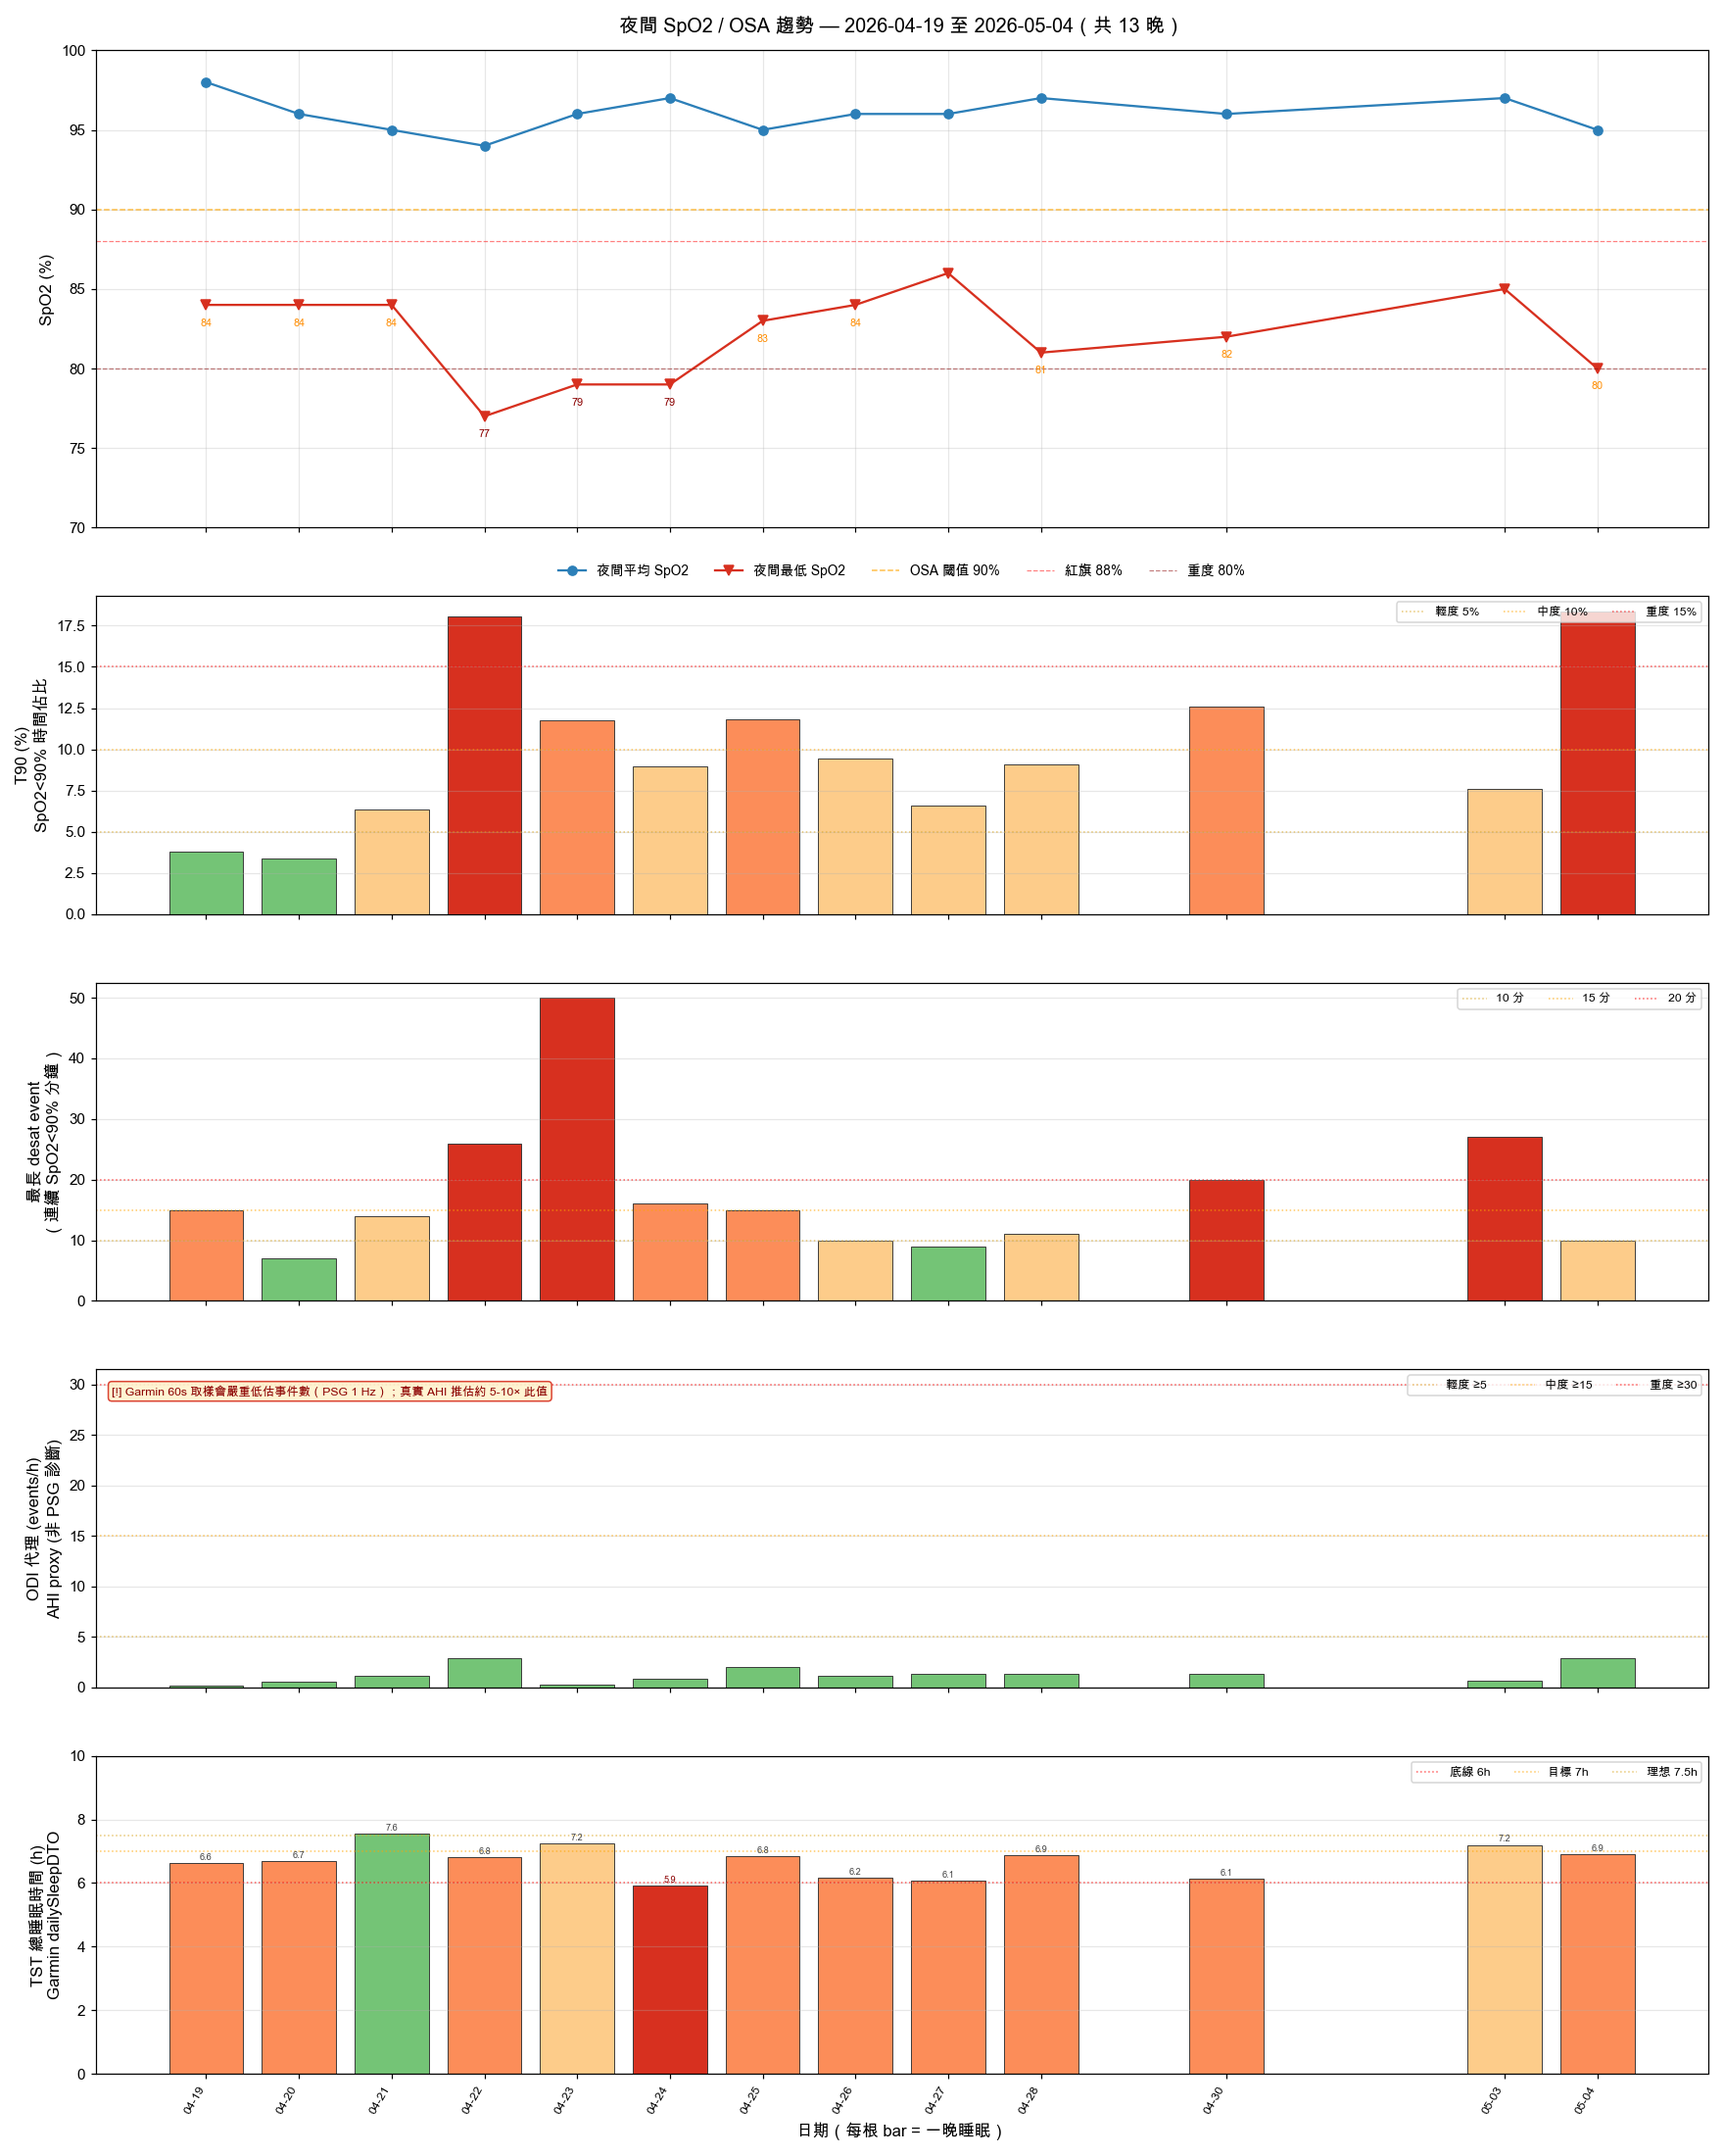
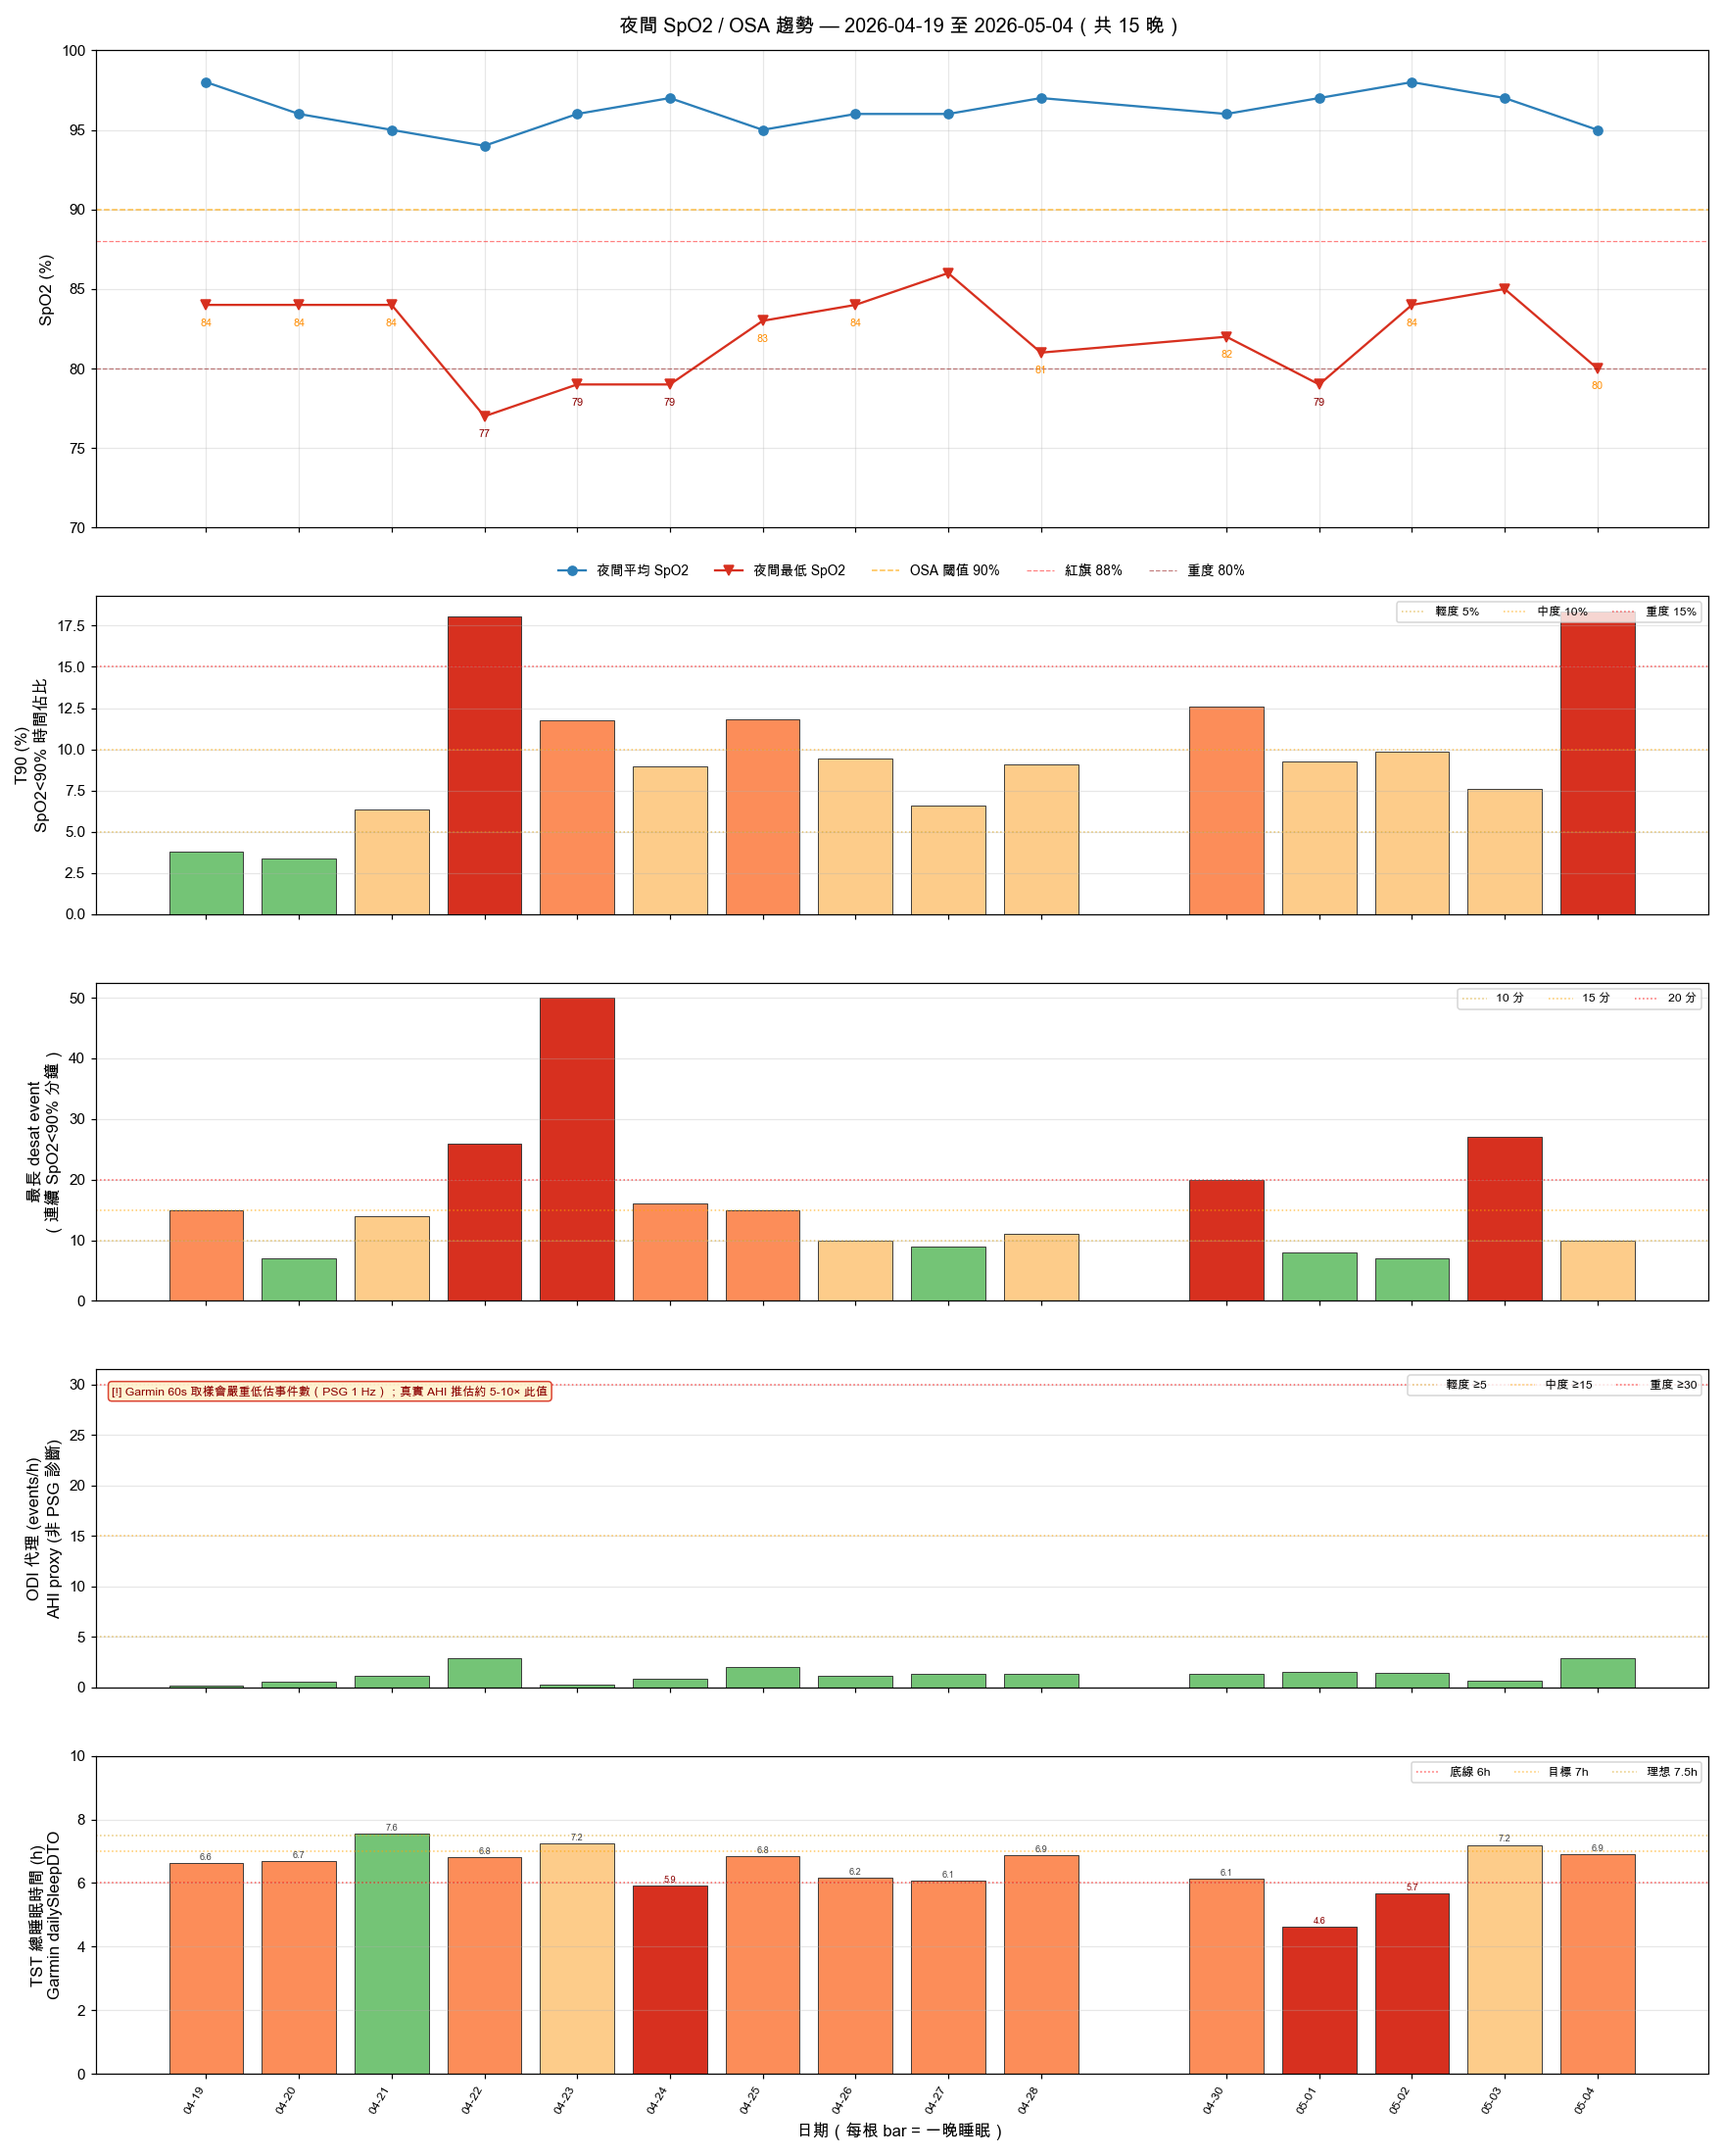
補抓 5/1-5/2 數據；新增旅遊延遲爆發假設分析（鈉滯留主因，無酒精）
- 補抓 data/garmin/2026-05-01.json 與 2026-05-02.json（旅遊期殘缺數據已回填）
- 重新生成 spo2_desat_2026-05-01.png、2026-05-02.png 與整體 trend
- reviews/daily/2026-05-04.md 新增「旅遊後延遲爆發假設」區塊：
  - 5 晚對照表（5/1 入住、5/2 屋馬午餐、5/3 回程、5/4 爆發）
  - 機轉與證據強度評級（高鈉 rostral fluid shift = 強；REM 反彈 = 強；GERD = 中）
  - 屋馬午餐鈉/脂肪估算
  - 結論：屋馬午餐後 ~44h 延遲引爆 T90 18.4%，非口貼、非酒精、非自然週期

關鍵 caveat：48-72h 延遲峰值無單一命名研究，是綜合疊加推論；N=1 工作假設待累積 5 次外食事件對照驗證。

diff --git a/reviews/daily/2026-05-04.md b/reviews/daily/2026-05-04.md
@@ -52,7 +52,50 @@
 
 **今晚 desat 統計（圖表）：** Avg 95% / **T90 = 18.4%（重度區間）** / 20 個 events / 最深 80% × 8 分
 
-**綜合判讀：** 連續 OSA 紅旗模式持續 ≥ 2 週。昨晚使用小林口貼後主觀睡眠良好、無張嘴，睡前手動 SpO2 = 93%，但腕錶夜間 nadir 仍降至 80%、T90 18.4% 比 5/3（7.6%）惡化 → 口貼僅消除張嘴呼吸途徑，未改善咽喉/舌根塌陷型阻塞，**PSG 預約不可再延**。
+### 旅遊後延遲爆發假設（5/1-5/2 台中行 → 5/4 重度夜）
+
+**情境：** 5/1（五）赴台中；**5/2 中午屋馬燒肉**；5/3 回台北；**5/4 為屋馬午餐後約 44 小時**。**全程未飲酒。**
+
+**5 晚對照表：**
+
+| 日期 | 情境 | TST | REM | SS | T90% | nadir | events |
+|------|------|-----|-----|----|------|-------|--------|
+| 5/1 (五) | 赴台中、入住旅館 | **4h38m** | **10** | **52** | 9.3% | **79%** | 7 |
+| 5/2 (六) | **中午屋馬燒肉** | 5h41m | 64 | 69 | 9.9% | 84% | 8 |
+| 5/3 (日) | 回台北 | 7h12m | 76 | 77 | 7.6% | 85% | 5 |
+| **5/4 (一)** | **屋馬後 ~44h** | 6h54m | 73 | 77 | **18.4%** | **80%** | **20** |
+
+**5/1 異常的另一解釋（非酒精）：**
+- 起床 03:25 提早 2 小時、REM 僅 10 分、Sleep Score 52 → **可歸因於旅館換床、第一晚入睡品質、旅遊日累積疲勞**
+- 23:39 早段 desat 79% × 8 分：可能是旅館仰臥姿勢 + 旅館枕頭 + 環境塵蟎/空調乾燥 → 鼻腔阻力暫時增加
+- 此夜的爆發**屬一次性環境效應**，與 5/4 的延遲爆發機轉不同
+
+**疊加機轉與證據（無酒精版）：**
+
+| 機轉 | 證據強度 | 關鍵文獻 |
+|------|---------|---------|
+| **高鈉攝取 → 鈉水滯留 → 頸部 rostral fluid shift → AHI ↑** | **強** | Redolfi 2009 *AJRCCM* 179:241（leg fluid → neck → AHI 直接相關）；Kasai 2014 *Hypertension* 64:533（鈉飲食介入直接增加 AHI） |
+| **REM 期 OSA 嚴重度為 NREM 1.5-3×** | **強** | Findley 1985 *Chest* 87:432；Mokhlesi 2014 *AJRCCM* 190:1158 |
+| 睡眠負債（5/1 4h38m）→ REM 反彈跨 2-3 晚 | 中-強 | Brunner 1990 *EEG Clin Neurophysiol* 75:492 |
+| GERD（高脂高鈉餐後 24-48h）↔ OSA | 中 | Demeter & Pap 2004 *WJG* 10:2990（共病率 60%） |
+| **24-48h 鈉排除滯後（高鈉餐後尿鈉峰值在第 2 天）** | **強** | Damgaard 2009 *J Hypertens* 27:118；He & MacGregor 2013 *Cochrane Reviews*（鈉排除 t½ 約 36h） |
+| **40-50h 延遲爆發**（綜合疊加） | 中（時序對得很好） | 屋馬午餐 → ~44h 後的 5/4 凌晨 desat 高峰，與鈉滯留峰值（24-48h post-load）+ REM 反彈尾段疊加吻合 |
+
+**屋馬燒肉午餐的鈉與脂肪估算（無酒精）：**
+- 醬料烤肉（烤肉醬 / 鹽蔥）+ 味噌湯 + 韓式泡菜 / 醃菜 → 單餐鈉常 **3,000-5,000 mg**
+- 和牛 / 五花脂肪 + 厚切牛舌 → 單餐脂肪 50-80 g
+- 中午吃 → 下午到晚上仍在攝取期飲水可能未足量補回 → 實際血鈉 / 血容量提升維持 24-36h
+- **沒有酒精就排除了「肌張力直接抑制」與「REM 多晚反彈」的最強因子**——這也意味著疊加效應應該比我之前估的**輕一些**，但鈉效應仍然完全成立
+
+**結論修正（v2）：** 之前提的「OSA 7-12 天自然週期」**仍為次要假設**。更精確：
+
+> 你的 OSA baseline T90 ≈ 7-10%（中度）。**屋馬午餐（5/2 高鈉、無酒精）+ 旅遊累積睡眠負債**疊加後，於約 40-44 小時延遲（5/4 凌晨 REM 高峰期）引爆至 T90 18.4%（重度）。主要機轉是**鈉滯留 → rostral fluid shift**，REM 期放大效應為次要因子。
+
+**待驗證：** 此假設需累積 ≥ 5 次相似事件對照才能確認，目前 N=1 為工作假設。下次外食重鈉日（無酒精），請主動標記，觀察 +24h、+48h、+72h 三晚 T90 變化。
+
+**綜合判讀：** 連續 OSA 紅旗模式持續 ≥ 2 週。5/4 重度夜最可能來源為**屋馬午餐高鈉延遲後效（~44h）+ REM 反彈疊加**，非口貼導致、非酒精、非自然週期。**PSG 預約不可再延**——理想時機為下次「無外食、無旅遊」的乾淨 baseline 狀態（避免在重鈉餐後 3 晚內檢查）。
+
+**5/5-5/8 觀察重點：** T90 應逐步回歸 8-12% baseline。若 5/8 仍 ≥ 15% → OSA 自身惡化，非屋馬延遲效應。
 
 *Sleep Score < 65 或 Body Battery < 50 連續三天 → 重新檢視睡眠修復方案。*
 

diff --git a/reports/daily-garmin/2026-05-02.md b/reports/daily-garmin/2026-05-02.md
@@ -1,0 +1,28 @@
+# Garmin 每日摘要 — 2026-05-02
+
+## 睡眠
+- 就寢：23:06｜起床：05:11
+- 總時長：5h 41m
+- 深眠：69 分｜REM：64 分
+- Sleep Score：69
+- Body Battery 起床值：41
+
+## 靜息心率
+- RHR：59.0 bpm
+
+## 壓力
+- 日均：28
+
+## 步數
+- 總計：9,213
+
+## SpO2
+- 日均：97.0%
+- 最低：84%
+
+## 飲水
+- 實際：2.20 L
+- 目標：2.15 L
+- 運動流汗耗水：0.15 L
+
+_Source: data/garmin/2026-05-02.json (gitignored)_

diff --git a/reports/daily-garmin/2026-05-01.md b/reports/daily-garmin/2026-05-01.md
@@ -11,18 +11,18 @@
 - RHR：58.0 bpm
 
 ## 壓力
-- 日均：21
+- 日均：35
 
 ## 步數
-- 總計：3,310
+- 總計：10,851
 
 ## SpO2
 - 日均：97.0%
 - 最低：84%
 
 ## 飲水
-- 實際：0.35 L
-- 目標：2.26 L
-- 運動流汗耗水：0.26 L
+- 實際：1.70 L
+- 目標：2.43 L
+- 運動流汗耗水：0.43 L
 
 _Source: data/garmin/2026-05-01.json (gitignored)_
